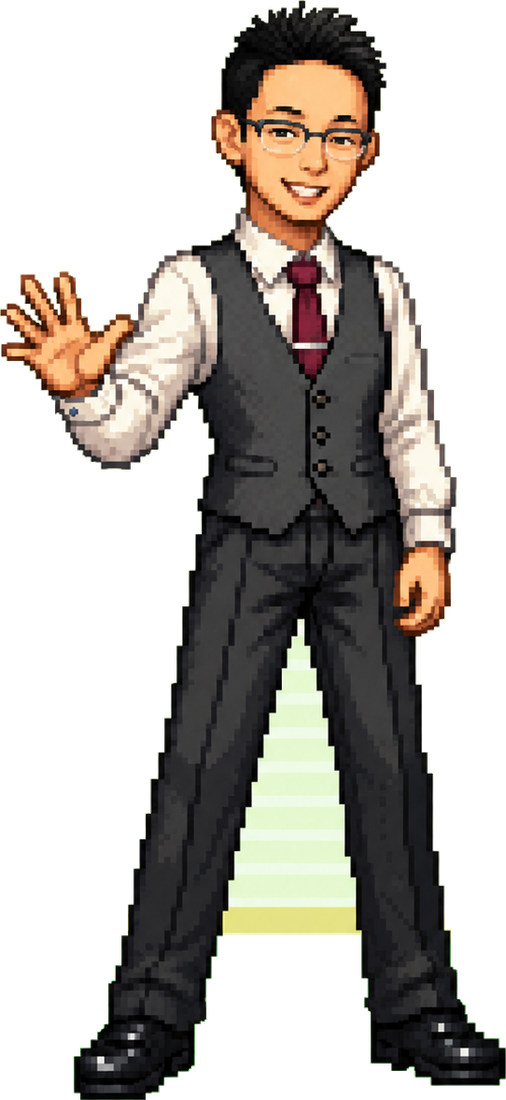
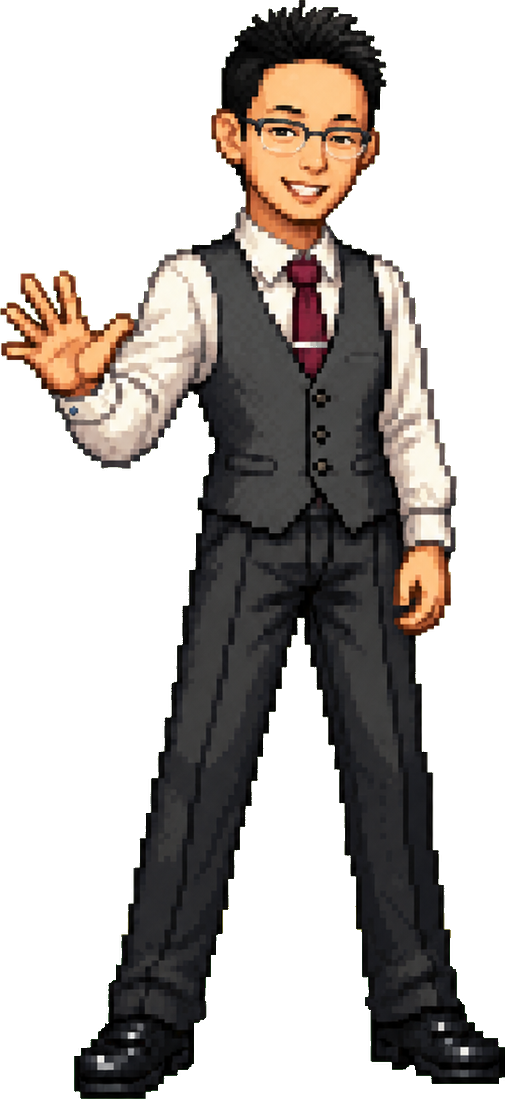
あずけや建物・洞窟名・ユカリ改名＆追従・トレーナー透過を改善 (#117)
- あずけやの建物を ハート型の専用スプライト（bldg-daycare）に差し替え
- セレネタウンの洞窟入口ラベルを「ほらあな」→「コペルニクスどうくつ」に
- ジムリーダー ルナ を ユカリ に改名（看板・助手/スタッフのセリフも）
- ユカリを倒すと セレネタウン滞在中は うしろを ついてくる（追従を汎用化）
- ハセガワ・マツモトの バトル立ち絵で 脚のあいだに残っていた
  背景（緑・影）を透過処理

Claude-Session: https://claude.ai/code/session_01LnWS4sdQsugP7gqBDAjM6K

diff --git a/app/game/scenes/MapScene.ts b/app/game/scenes/MapScene.ts
@@ -115,12 +115,14 @@ export class MapScene extends Phaser.Scene {
   private momNpcX = 2;
   private momNpcY = 3;
 
-  // 仲間（ヒジリ）の追従スプライト。ミノリタウンでだけ プレイヤーの
-  // 1歩うしろを ついてくる。各ステップで 直前のタイルへ移動する。
+  // 仲間の追従スプライト。その町にいるあいだ プレイヤーの1歩うしろを
+  // ついてくる（ミノリタウン=ヒジリ、セレネタウン=倒したユカリ）。
+  // 各ステップで 直前のタイルへ移動する。
   private companionSprite?: Phaser.GameObjects.Image;
   private companionTileX = 0;
   private companionTileY = 0;
   private companionDir: Direction = "down";
+  private companionCast = "hijiri";   // 追従スプライトの cast 名（cast-<名>-<向き>）
 
   // Shopkeeper NPC (Planet Shop) — npc tile is the counter front; the sprite
   // is drawn one tile behind it (RSE-style talking across the counter).
@@ -435,6 +437,7 @@ export class MapScene extends Phaser.Scene {
       this.placeSereneDecor();
       this.placeSereneTownEvents();
       this.placeCopernicusCaveMouth();
+      this.placeCompanionFollower();   // ユカリ台長を倒していれば うしろを ついてくる
       const pk = this.playerState?.pickups || [];
       if (this.playerState && !pk.includes("serene_arrival_seen")) {
         this.time.delayedCall(700, () => this.playSereneArrival());
@@ -848,10 +851,20 @@ export class MapScene extends Phaser.Scene {
     }
   }
 
-  /** 仲間（ヒジリ）の向きから 俯瞰スプライトのテクスチャキーを返す。 */
+  /** 仲間の向きから 俯瞰スプライトのテクスチャキーを返す。 */
   private companionTexKey(dir: Direction): string {
-    const k = `cast-hijiri-${dir}`;
-    return this.textures.exists(k) ? k : "cast-hijiri-down";
+    const k = `cast-${this.companionCast}-${dir}`;
+    return this.textures.exists(k) ? k : `cast-${this.companionCast}-down`;
+  }
+
+  /** いまの町で うしろを ついてくる仲間の cast 名を返す（いなければ null）。
+   *  ミノリタウン=仲間になったヒジリ、セレネタウン=倒したユカリ台長。 */
+  private activeTownCompanion(): string | null {
+    const ps = this.playerState;
+    if (!ps) return null;
+    if (this.currentMapKey === "minori_town" && ps.companion === "hijiri") return "hijiri";
+    if (this.currentMapKey === "serene_town" && ps.defeatedTrainers.includes("luna")) return "luna";
+    return null;
   }
 
   /** (x,y) から dir を向いたときの「うしろ」のタイル。 */
@@ -862,10 +875,11 @@ export class MapScene extends Phaser.Scene {
     return { x: x - 1, y }; // right
   }
 
-  /** ミノリタウンで、仲間になったヒジリを プレイヤーのうしろに配置する。 */
+  /** その町の仲間を プレイヤーのうしろに配置する（いなければ何もしない）。 */
   private placeCompanionFollower(): void {
-    if (this.currentMapKey !== "minori_town") return;
-    if (this.playerState?.companion !== "hijiri") return;
+    const cast = this.activeTownCompanion();
+    if (!cast) return;
+    this.companionCast = cast;
     this.companionDir = this.facingDirection;
     // プレイヤーの1歩うしろに置く。そこが壁など通れないタイルなら、
     // プレイヤーと同じタイルから出発させる（一歩あるくと自然に離れる）。
@@ -7464,7 +7478,7 @@ export class MapScene extends Phaser.Scene {
 
     // 光ジムの扉（開通！ 踏むと セレネジムへ ワープ）。看板は 案内に。
     this.nectarExam.push({ x: 8, y: 14, fn: () => this.showDialog([
-      "『光のジム 【セレネジム】\nリーダー ルナ。』",
+      "『光のジム 【セレネジム】\nリーダー ユカリ。』",
       "『プリズムで 光の橋を つくって\nおくの リーダーを めざそう。』",
     ]) });
   }
@@ -7694,8 +7708,8 @@ export class MapScene extends Phaser.Scene {
     g.fillStyle(0x1b1630, 1); g.fillEllipse(cx, cy + 5, ts * 0.6, ts * 0.5);
     // 光条クレーターらしく、奥から ほんのり 光がもれる
     g.fillStyle(0xbfe6ff, 0.18); g.fillEllipse(cx, cy + 6, ts * 0.32, ts * 0.26);
-    this.add.text(cx, cy - ts * 0.72, "ほらあな", {
-      fontSize: "12px", color: "#cfe6ff", fontFamily: "'DotGothic16', monospace",
+    this.add.text(cx, cy - ts * 0.72, "コペルニクスどうくつ", {
+      fontSize: "11px", color: "#cfe6ff", fontFamily: "'DotGothic16', monospace",
       stroke: "#000000", strokeThickness: 3,
     }).setOrigin(0.5).setDepth(7);
   }

diff --git a/app/game/scenes/BootScene.ts b/app/game/scenes/BootScene.ts
@@ -125,6 +125,7 @@ export class BootScene extends Phaser.Scene {
     this.load.image("bldg-mirror-tower", `${base}/assets/buildings/sprites/mirror_tower.png`);
     this.load.image("bldg-beacon-tower", `${base}/assets/buildings/sprites/beacon_tower.png`);
     this.load.image("bldg-solar-tower", `${base}/assets/buildings/sprites/solar_tower.png`);
+    this.load.image("bldg-daycare", `${base}/assets/buildings/sprites/daycare.png`);
 
     // Trainer battle portraits (hand-drawn, background removed)
     ["suit", "casual", "peace", "hoodie", "eezen", "girl", "worker", "redcap", "armor", "emo", "shin", "kojima", "masaki", "bikyaku", "takehana", "sunaga", "shiina", "aragaki", "astronaut", "shinobu", "kiyohara", "voice_grunt1", "voice_grunt2", "voice_grunt3", "voice_grunt4", "ishii", "shiori", "kishishita", "hijiri", "luna", "hasegawa", "taka", "miho", "matsumoto"].forEach(t => {
